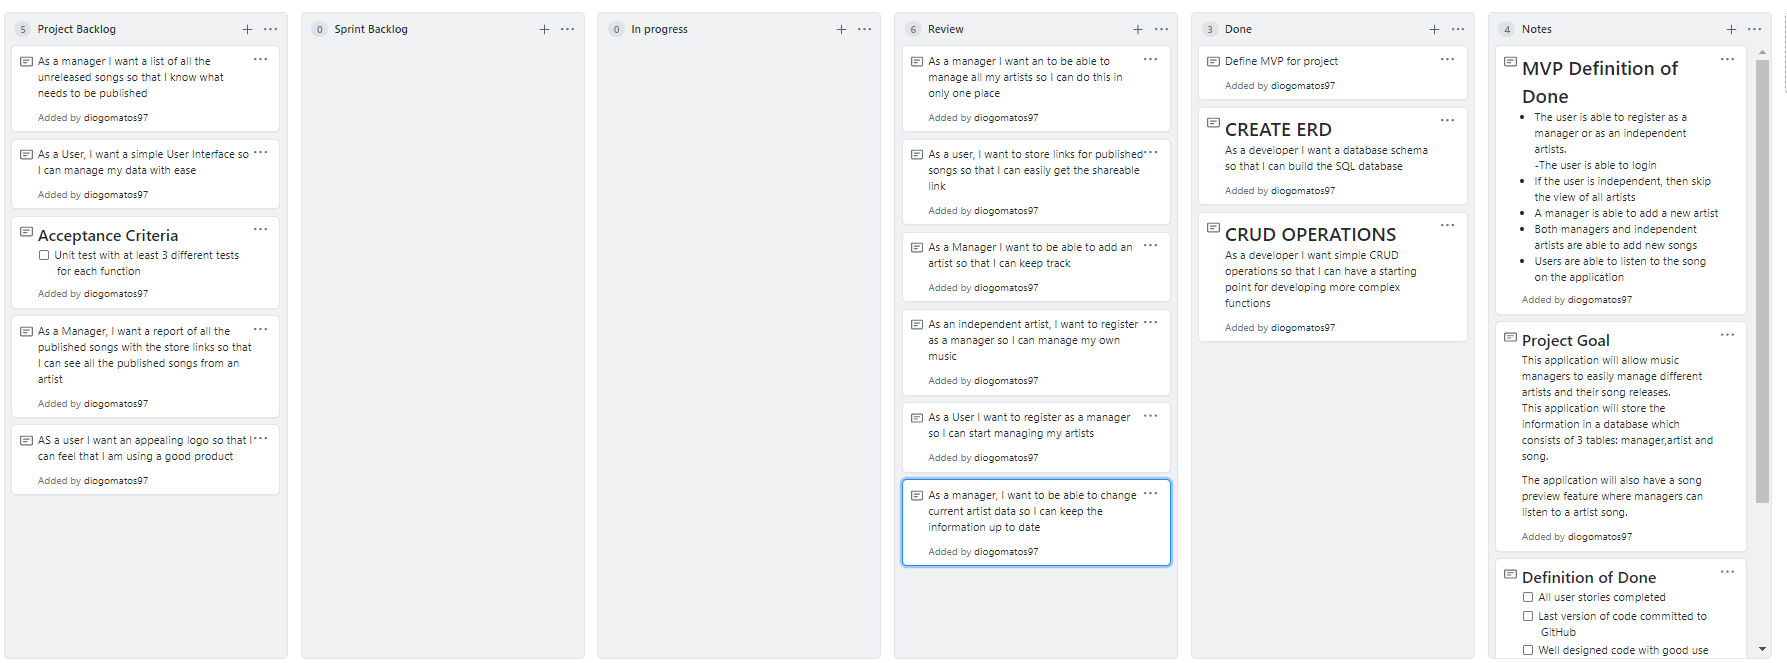
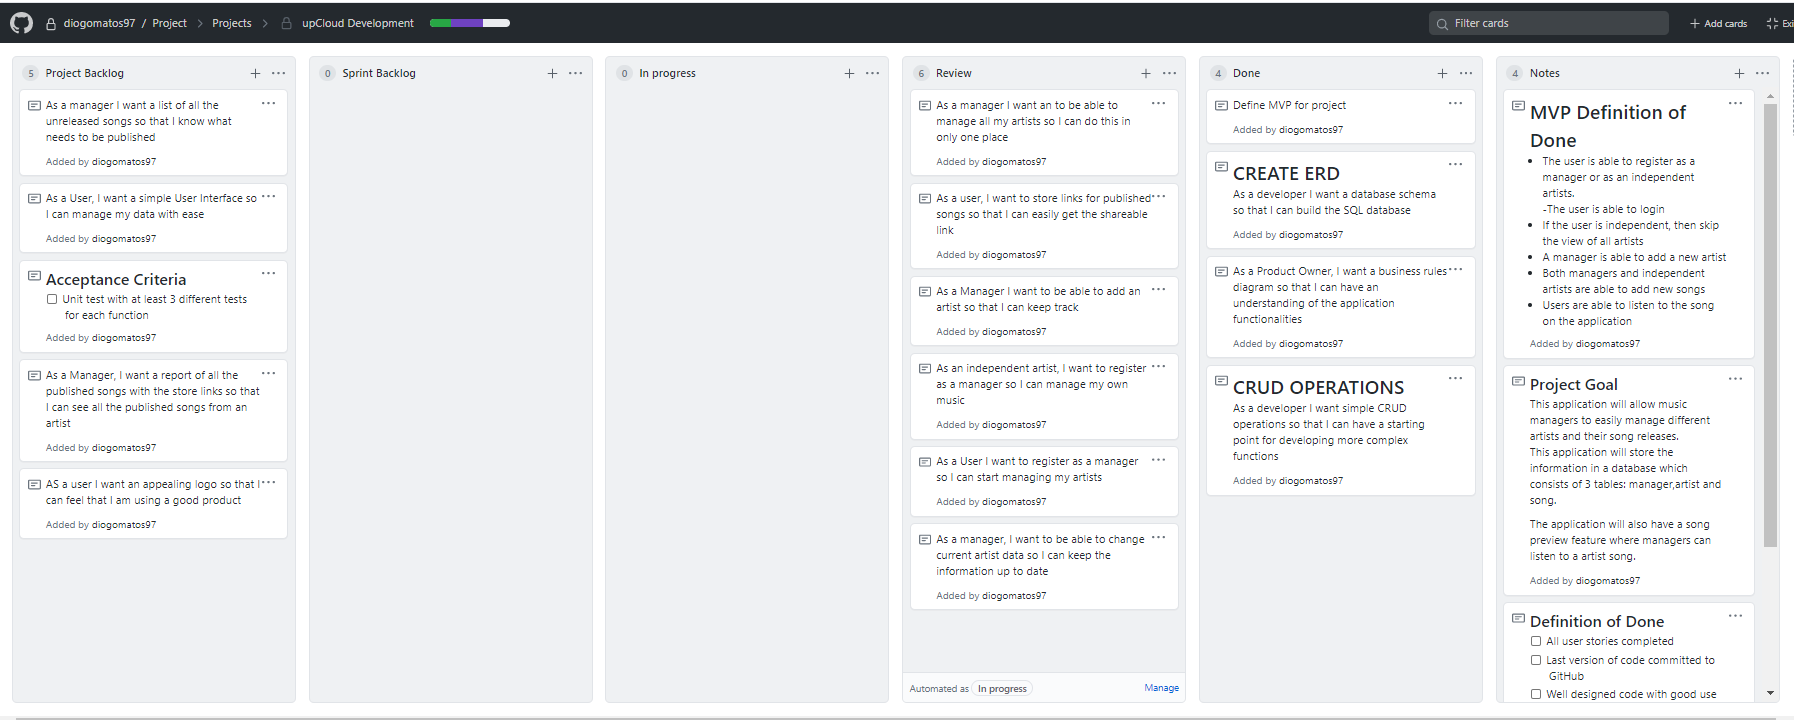
updated end of sprint1 kan ban

diff --git a/README.md b/README.md
@@ -9,7 +9,7 @@ The goal for this sprint is to create the database and start developing the CRUD
 
 #### Review
 
-For this sprint, 3 user stories have been marked as Done, which all correspond to the creation of the database. In addition, 6 other user stories have been added to the review stage, as, altough already pre-fulfilled, all are required to go through testing, both automated and manual. This review stage will span throughout the next sprint, as it is important to test the functionalities before starting to develop an Graphical User Interface. It is also important to note that, to fulfill the manual testing, a sample GUI will be created on the next sprint to conclude that all functionalities are working according to the requirements.
+For this sprint, 4 user stories have been marked as Done, which all correspond to the creation of the database. In addition, 6 other user stories have been added to the review stage, as, altough already pre-fulfilled, all are required to go through testing, both automated and manual. This review stage will span throughout the next sprint, as it is important to test the functionalities before starting to develop an Graphical User Interface. It is also important to note that, to fulfill the manual testing, a sample GUI will be created on the next sprint to conclude that all functionalities are working according to the requirements.
 
 ![](https://github.com/diogomatos97/Project/blob/WIP/images/erd.PNG)
 
